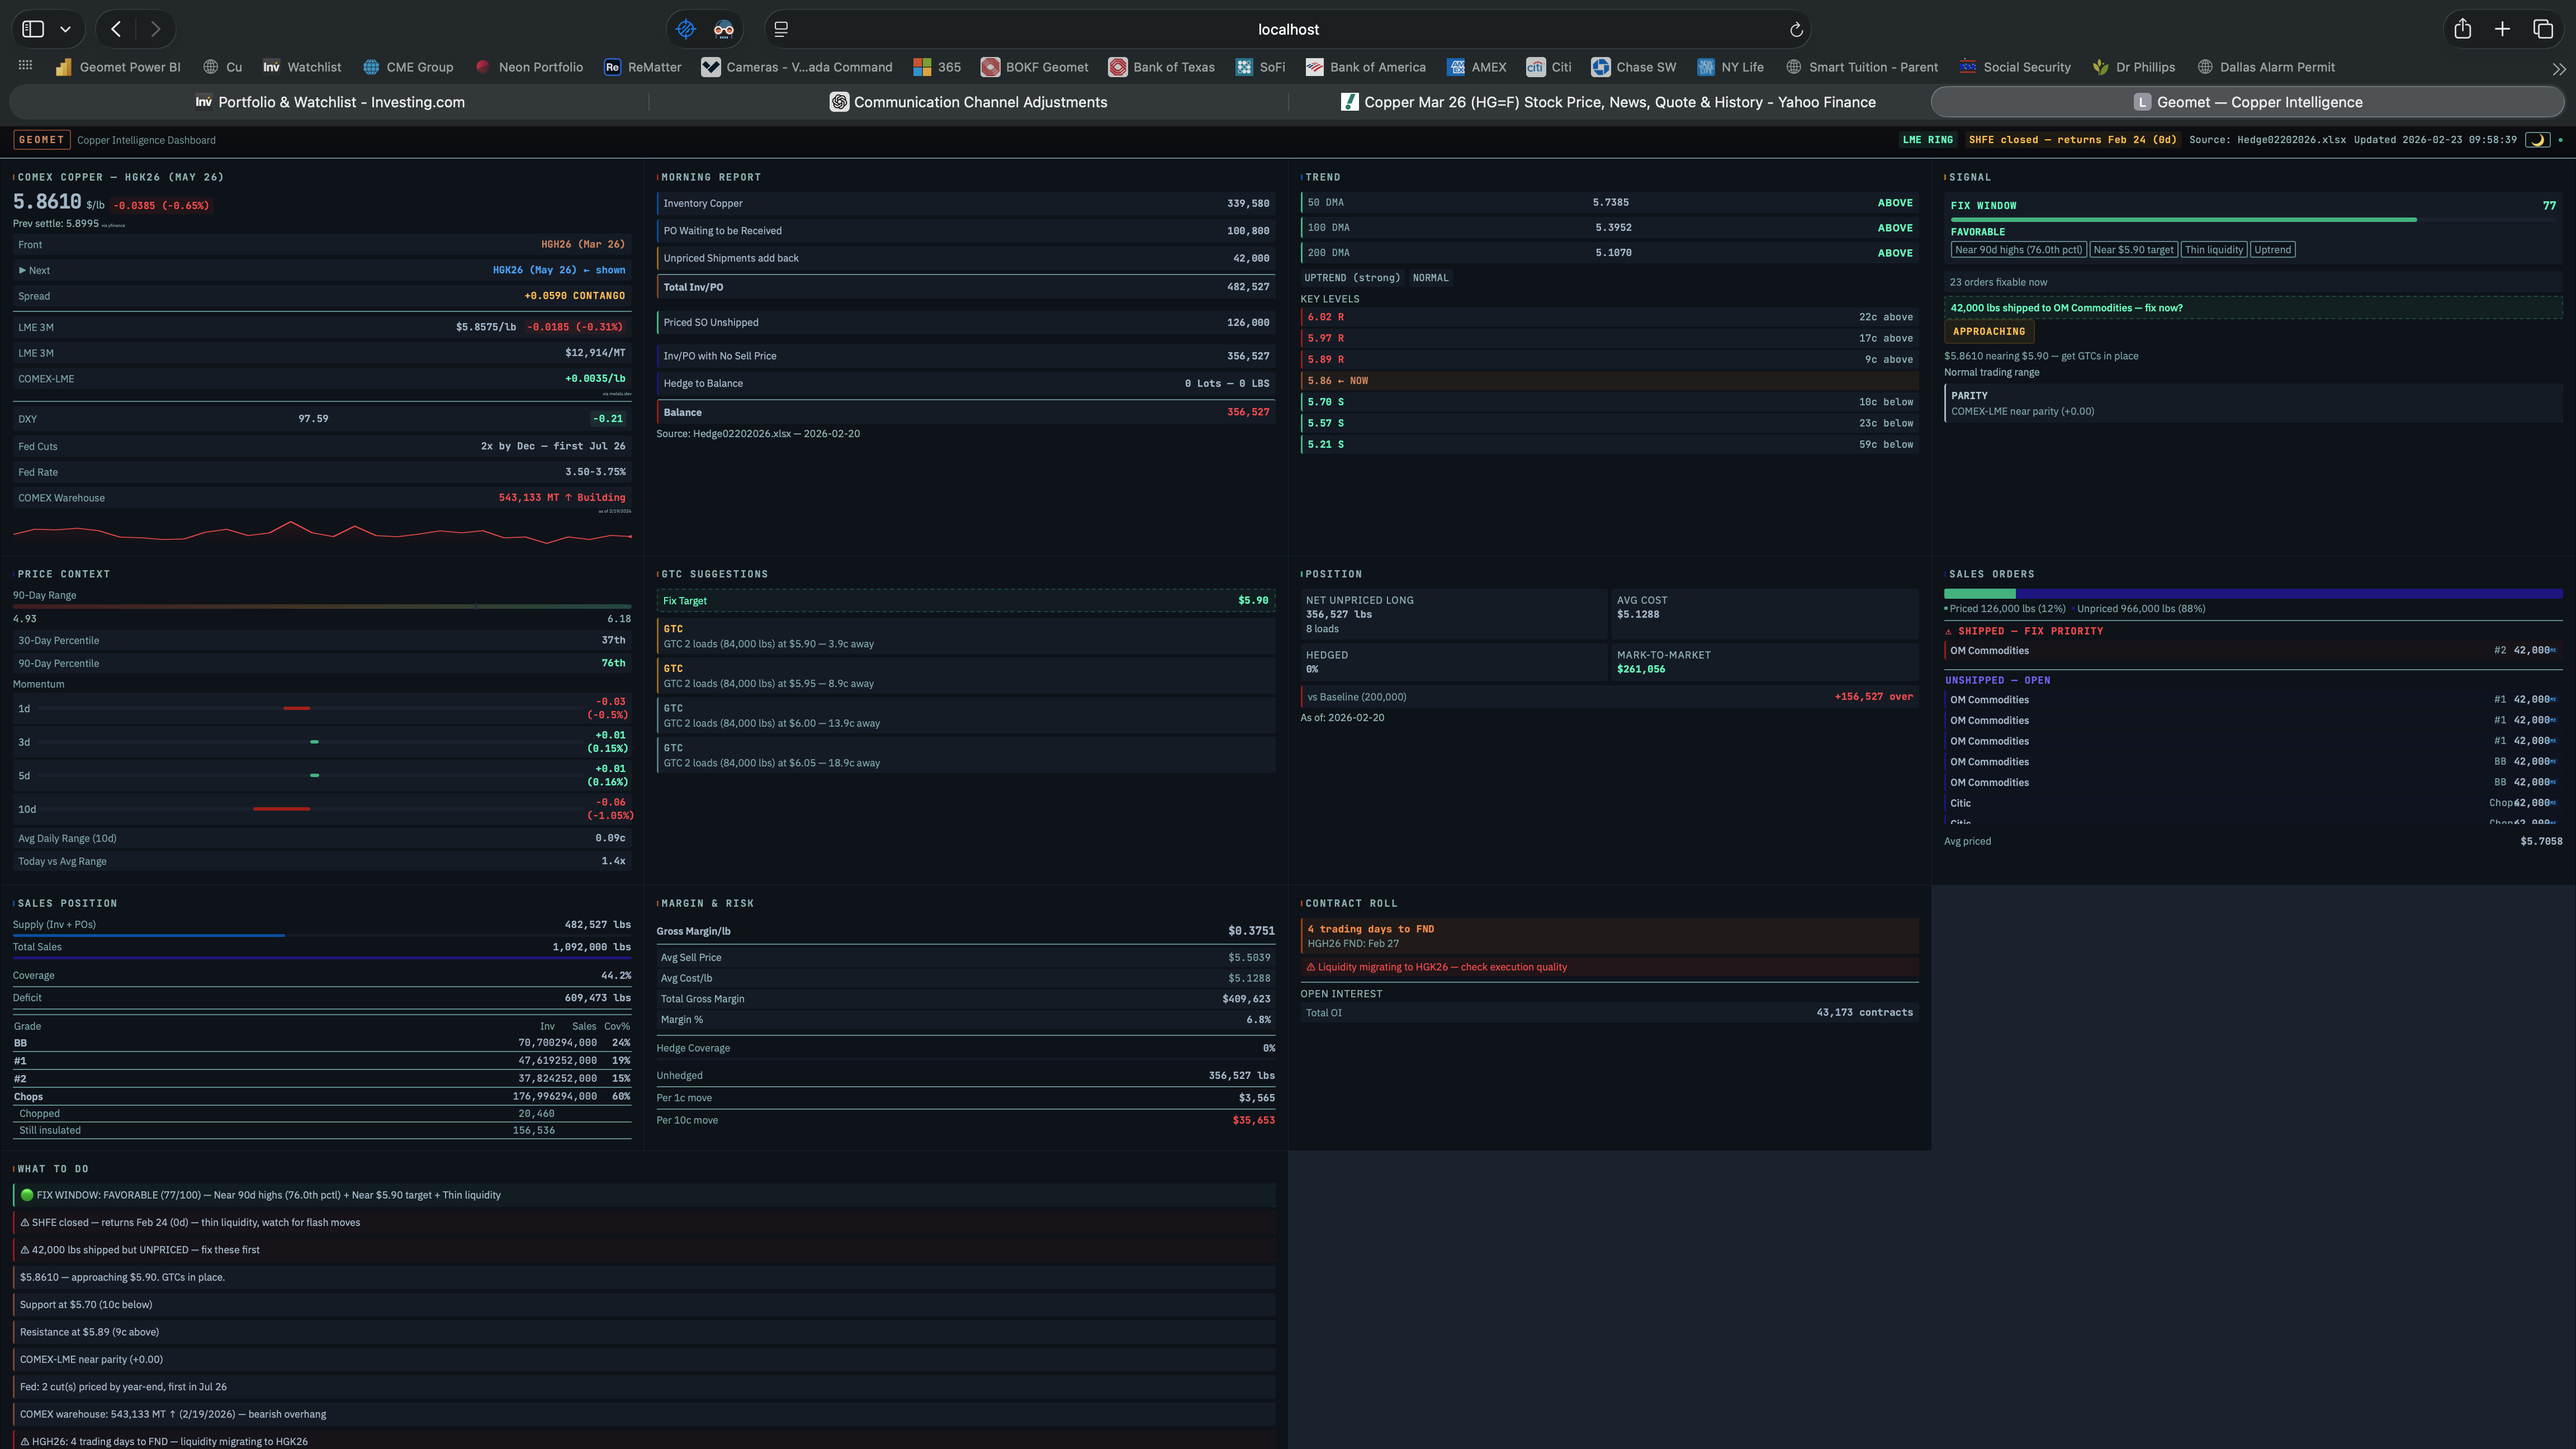
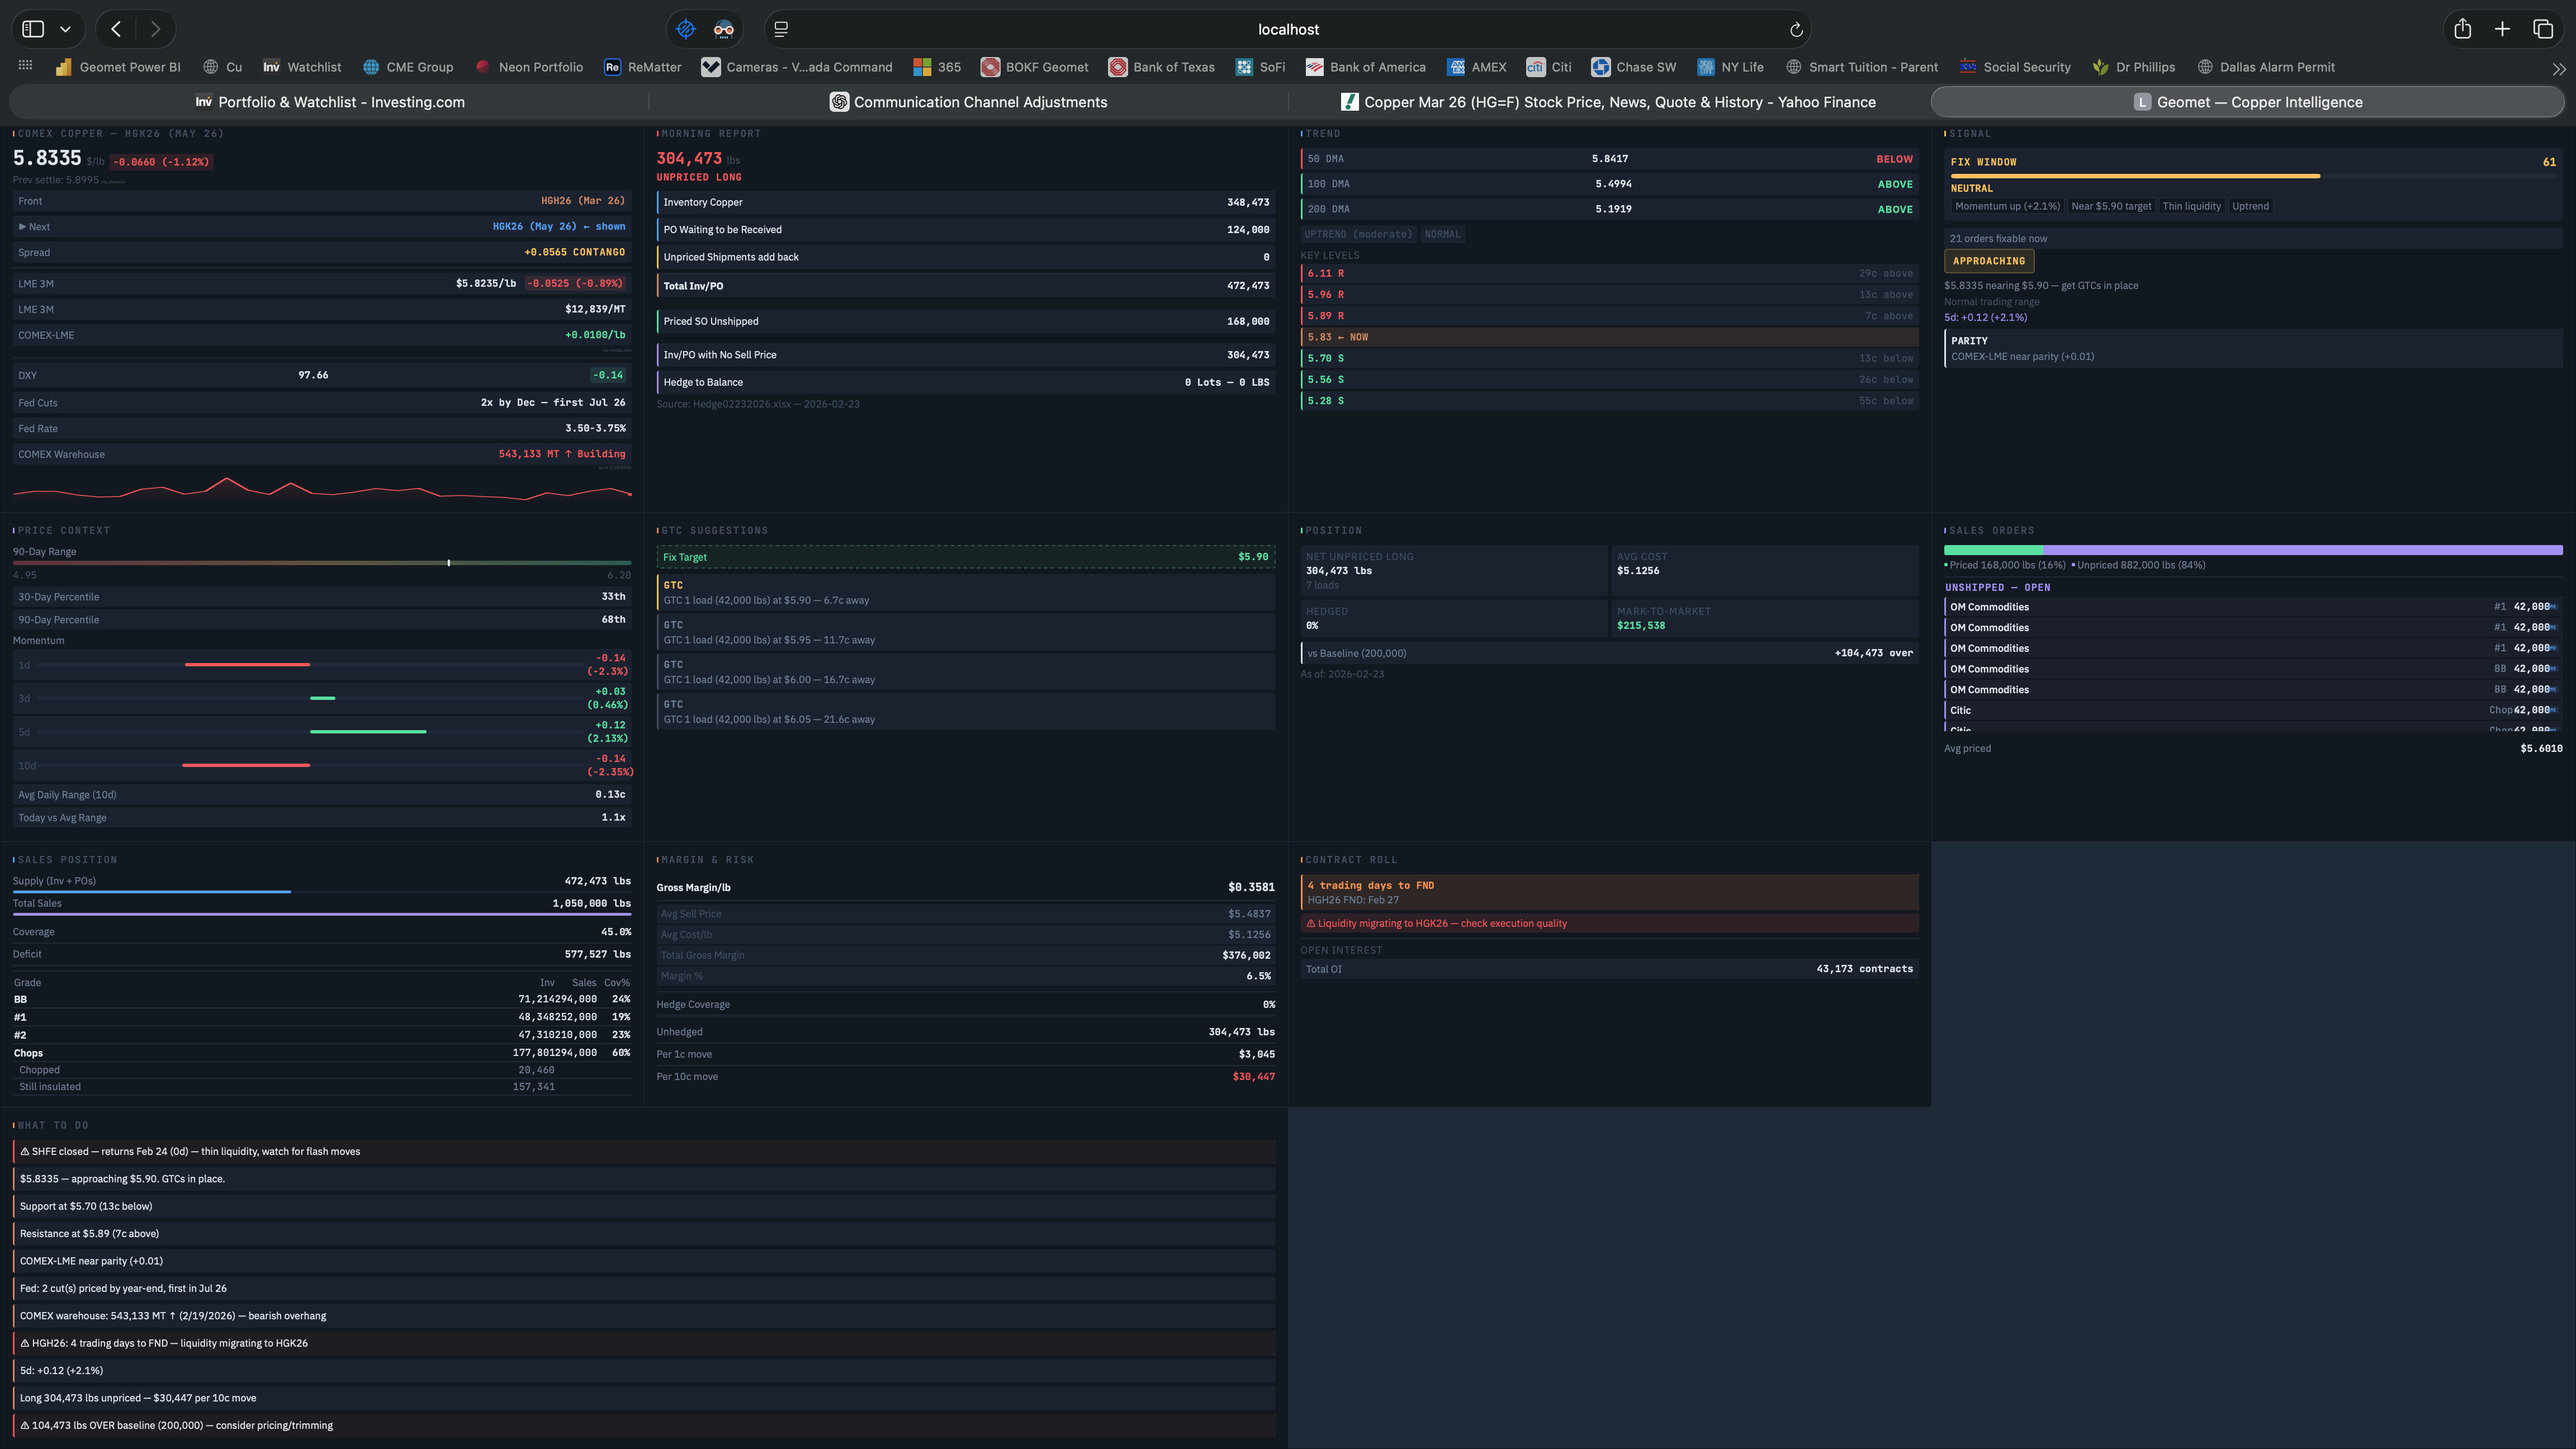
Move Balance to hero position in Morning Report
Balance (unpriced long/short) is now the first thing visible at the
top of Morning Report as a large number with UNPRICED LONG/SHORT
label. Detail breakdown follows below. Updated screenshot.

diff --git a/static/index.html b/static/index.html
@@ -224,6 +224,9 @@ var noPriceLbs=invPo-pricedUn;
 var hedgeLots=pos?(Math.round((pos.comex_futures||0)/25000)+Math.round((pos.lme_futures||0)/25000)):0;
 var hedgeLbs=pos?((pos.comex_futures||0)+(pos.lme_futures||0)):0;
 var bal=noPriceLbs-hedgeLbs;
+var balClr=bal>0?'var(--r)':'var(--g)',balLbl=bal>0?'LONG':'SHORT';
+h+='<div style="display:flex;align-items:baseline;gap:8px;margin-bottom:4px"><span style="font-family:JetBrains Mono,monospace;font-size:28px;font-weight:700;color:'+balClr+'">'+n(Math.abs(Math.round(bal)))+'</span><span style="font-size:11px;color:var(--td)">lbs</span></div>';
+h+='<div style="font-family:JetBrains Mono,monospace;font-size:10px;font-weight:700;letter-spacing:1px;color:'+balClr+';margin-bottom:12px">UNPRICED '+balLbl+'</div>';
 h+='<div class="dl">';
 h+='<div class="di" style="display:flex;justify-content:space-between;align-items:center;border-left-color:var(--b)"><span>Inventory Copper</span><span style="font-family:JetBrains Mono,monospace;font-weight:700;font-size:14px">'+n(Math.round(r.inventory_cu_lbs))+'</span></div>';
 h+='<div class="di" style="display:flex;justify-content:space-between;align-items:center;border-left-color:var(--b)"><span>PO Waiting to be Received</span><span style="font-family:JetBrains Mono,monospace;font-weight:700;font-size:14px">'+n(Math.round(r.po_lbs))+'</span></div>';
@@ -234,7 +237,6 @@ h+='<div class="di" style="display:flex;justify-content:space-between;align-item
 h+='<div style="height:4px"></div>';
 h+='<div class="di" style="display:flex;justify-content:space-between;align-items:center;border-left-color:var(--p)"><span>Inv/PO with No Sell Price</span><span style="font-family:JetBrains Mono,monospace;font-weight:700;font-size:14px">'+n(Math.round(noPriceLbs))+'</span></div>';
 h+='<div class="di" style="display:flex;justify-content:space-between;align-items:center;border-left-color:var(--p)"><span>Hedge to Balance</span><span style="font-family:JetBrains Mono,monospace;font-weight:700;font-size:14px">'+hedgeLots+' Lots \u2014 '+n(Math.round(hedgeLbs))+' LBS</span></div>';
-h+='<div style="display:flex;justify-content:space-between;align-items:center;padding:9px 10px;background:var(--sf2);border-radius:4px;border-left:3px solid '+(bal>0?'var(--r)':'var(--g)') +';border-top:2px solid var(--bd)"><span style="font-weight:700">Balance</span><span style="font-family:JetBrains Mono,monospace;font-weight:700;font-size:16px;color:'+(bal>0?'var(--r)':'var(--g)')+'">'+n(Math.round(bal))+'</span></div>';
 h+='</div>';
 if(pos&&pos.updated)h+='<div class="pks" style="margin-top:6px">Source: '+pos.source_file+' \u2014 '+pos.updated+'</div>';
 }else h+='<div class="nd">No position data</div>';
